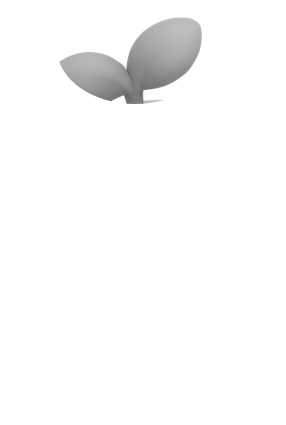
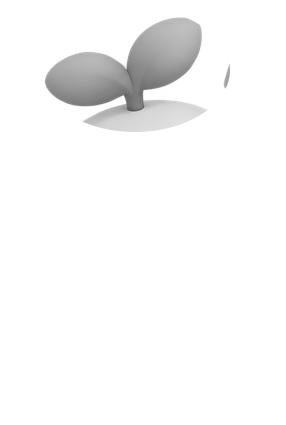
유년기 왼쪽 눈 아래·새싹 색이 안 바뀌던 문제 수정 (전 스테이지 범위 재측정)
사용자 스크린샷 신고: 유년기(stage-2)에서 왼쪽 눈 아래쪽에 원래 색(남색) 조각이
그대로 남아있고, 새싹 색도 잘 안 바뀜.

원인: 눈동자 인식 범위(eyeBoxes)가 실제 눈동자보다 살짝 작아서 — 픽셀 스캔으로
확인해보니 실제 눈동자가 상자 경계 바로 너머까지 이어져 있었다 — 그 잘려나간 부분이
눈동자 레이어에도 몸통 레이어에도 안 들어가고 원본 어두운 색 그대로 남았다. 잎사귀도
같은 이유(타원이 실제보다 작음)로 일부만 보이는 것처럼 잘렸다.

전 스테이지(유년기·청소년기·성체·시무룩)의 eyeBoxes와 leaf 타원을 픽셀 단위 스캔으로
다시 재서 넉넉하게 키웠다 — 스캔 범위를 얼굴 부분으로 좁혀서 입·가계부·가방·코인 같은
무관한 어두운 요소가 섞여 들어오지 않도록 했다.

Changed region(s): [[0.1399, 0.1224, 0.7273, 0.3365], [0.7832, 0.1529, 0.8112, 0.2141]]

diff --git a/design-assets/extract-pet-layers.js b/design-assets/extract-pet-layers.js
@@ -1,14 +1,17 @@
 // 참고 이미지(사용자 제공, design-assets/pet-mascot-reference.png)를 부위별 레이어로 분리하는
-// 스크립트(2026-09-15, 4차 수정) — public/pets/*-gray.png·*-fixed.png가 이 스크립트의 결과물이다.
+// 스크립트(2026-09-15, 5차 수정) — public/pets/*-gray.png·*-fixed.png가 이 스크립트의 결과물이다.
 // 재실행: `node design-assets/extract-pet-layers.js` (프로젝트 루트에서, sharp가 있어야 함).
 //
 // 이력(요약): 1차 도형 마스크 → 2차 알 단계 눈·잎사귀 보정 → 3차 dest-in/out이 알파 채널로만
 // 동작한다는 걸 몰라서 1채널 마스크가 무시되던 버그 수정 + 흰자 타원이 커서 몸 색 바꿔도 눈 주위에
-// 고리가 남던 문제 수정 → 4차(이번): "눈동자(pupils)" 타원도 흰자와 똑같은 문제가 있었다 — 실제
-// 눈동자보다 훨씬 큰 타원이라, 기본 눈 색(#2D2A3E, 채도 낮은 남색)이 그 큰 범위에 통으로 칠해지면서
-// 주변보다 확 튀는 "회색/라벤더 동그라미"로 보였다(사용자 신고, 2026-09-15 스크린샷 4장). 흰자와
-// 마찬가지로 타원 대신 "그 범위 안에서 실제로 어두운 픽셀만" 골라내는 방식으로 통일했다 — 이제
-// 눈동자·흰자 전부 색 임계값 기반이고, 타원은 볼·입·잎사귀·가계부·가방처럼 경계가 뚜렷한 부위에만 쓴다.
+// 고리가 남던 문제 수정 → 4차 "눈동자(pupils)" 타원도 흰자와 똑같은 문제(실제보다 큰 타원 → 기본
+// 눈 색이 큰 범위에 칠해져 회색 동그라미로 튐)를 색 임계값(eyeBoxes) 방식으로 수정 → 5차(이번):
+// stage-2(유년기)에서 왼쪽 눈 "아래쪽"이 안 바뀌는 문제·새싹 색이 잘 안 바뀌는 문제가 남아있었다
+// (사용자 신고, 2026-09-15) — eyeBoxes가 실제 눈동자 하단을 살짝 잘라내고 있었고(픽셀 스캔으로
+// 확인: 실제 눈동자가 상자 경계 y1 바로 너머까지 이어짐), leaf 타원도 여전히 작았다. 전 스테이지의
+// eyeBoxes·leaf 타원을 픽셀 단위 다크/알파 스캔으로 다시 재서 넉넉하게 키웠다(스캔할 때 입·가계부·
+// 가방·코인처럼 눈동자와 무관한 어두운 요소가 섞여 들어오지 않도록 탐색 범위를 얼굴 부분으로 좁혀서
+// 오염을 피했다 — 자세한 좌표 근거는 git 히스토리의 스캔 로그 참고).
 const sharp = require("sharp");
 const path = require("path");
 
@@ -45,8 +48,10 @@ const STAGES = {
     fixed: [ellipse(95, 232, 26, 16), ellipse(228, 220, 26, 16)], // 볼
   },
   "stage-2": {
-    leaf: [ellipse(134, 42, 74, 46)],
-    eyeBoxes: [{ x0: 45, x1: 155, y0: 105, y1: 205 }, { x0: 130, x1: 240, y0: 98, y1: 200 }],
+    // 잎사귀·눈동자 범위 둘 다 실제 알파/색 경계를 픽셀 단위로 스캔해서 넓혔다(2026-09-15 사용자
+    // 신고: 왼쪽 눈 아래·새싹 색이 안 바뀜 — 이전 범위가 실제 모양보다 작아서 잘려나갔던 게 원인).
+    leaf: [ellipse(138, 60, 80, 50)],
+    eyeBoxes: [{ x0: 75, x1: 148, y0: 145, y1: 222 }, { x0: 132, x1: 225, y0: 135, y1: 218 }],
     pupilDark: true,
     eyeWhite: true,
     fixed: [
@@ -56,9 +61,9 @@ const STAGES = {
     ],
   },
   "stage-3": {
-    leaf: [ellipse(135, 48, 78, 56)],
+    leaf: [ellipse(135, 70, 95, 62)],
     ledger: [rect(130, 246, 92, 64, 10)],
-    eyeBoxes: [{ x0: 45, x1: 160, y0: 120, y1: 235 }, { x0: 150, x1: 265, y0: 110, y1: 225 }],
+    eyeBoxes: [{ x0: 85, x1: 155, y0: 175, y1: 252 }, { x0: 145, x1: 248, y0: 155, y1: 250 }],
     pupilDark: true,
     eyeWhite: true,
     fixed: [
@@ -68,9 +73,9 @@ const STAGES = {
     ],
   },
   "stage-4": {
-    leaf: [ellipse(220, 50, 105, 60)],
+    leaf: [ellipse(147, 85, 112, 72)],
     bag: [ellipse(75, 375, 60, 60), ellipse(65, 345, 15, 11)],
-    eyeBoxes: [{ x0: 65, x1: 210, y0: 135, y1: 280 }, { x0: 185, x1: 330, y0: 125, y1: 265 }],
+    eyeBoxes: [{ x0: 110, x1: 205, y0: 210, y1: 296 }, { x0: 185, x1: 302, y0: 180, y1: 300 }],
     pupilDark: true,
     eyeWhite: true,
     fixed: [
@@ -82,8 +87,8 @@ const STAGES = {
   "stage-3-sulking": {
     // 크롭 직후 좌상단에 stage-4의 코인/반짝임이 새어 들어와서 지워야 한다(eraseFirst).
     eraseFirst: [rect(0, 0, 42, 148), rect(0, 140, 16, 40)],
-    leaf: [ellipse(150, 85, 72, 55)],
-    eyeBoxes: [{ x0: 50, x1: 165, y0: 190, y1: 305 }, { x0: 160, x1: 275, y0: 180, y1: 295 }],
+    leaf: [ellipse(150, 90, 85, 62)],
+    eyeBoxes: [{ x0: 55, x1: 170, y0: 225, y1: 305 }, { x0: 160, x1: 260, y0: 220, y1: 296 }],
     pupilDark: true,
     eyeWhite: true,
     fixed: [
